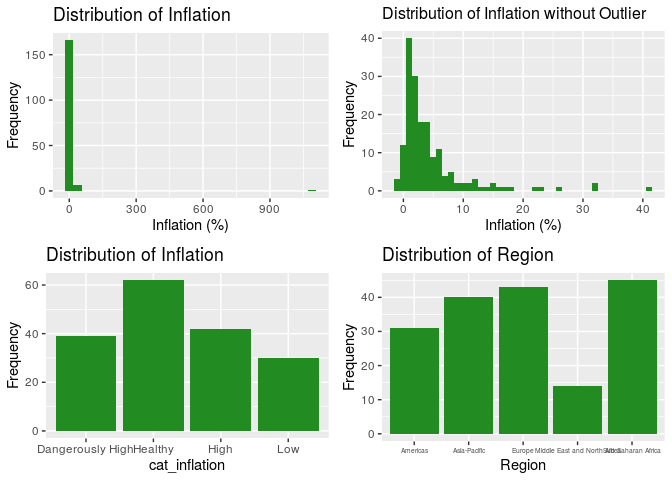
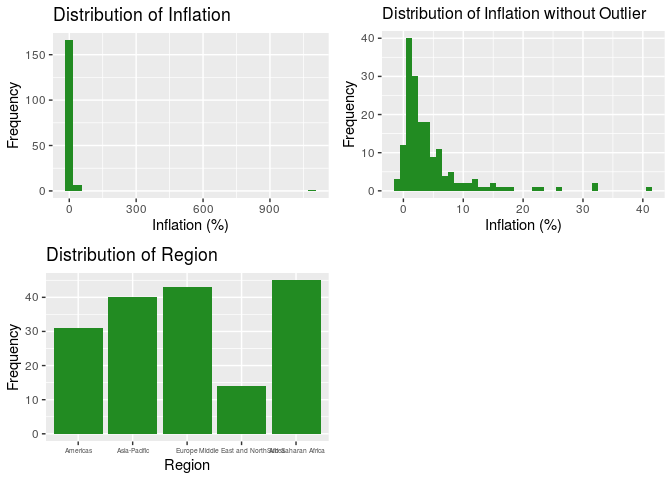
Shortened writeup

diff --git a/04-final-writeup/final-writeup.md b/04-final-writeup/final-writeup.md
@@ -56,23 +56,23 @@ The response variable is GDP.
     ##  n obs: 173 
     ##  n variables: 1 
     ## 
-    ## ── Variable type:numeric ────────────────────────────────────────────────────────────────────────────────
+    ## ── Variable type:numeric ─────────────────────────────────────────────────────────────────────────────────────────────────────────────
     ##  variable missing complete   n   mean      sd  p0  p25  p50   p75    p100
     ##       GDP       0      173 173 729.71 2486.04 0.6 28.3 88.9 439.6 23159.1
     ##      hist
     ##  ▇▁▁▁▁▁▁▁
 
-From our EDA, we decide to log-transform the response variable since the
-histogram of GDP (without outlier) shows a unimodal and right-skewed
+From our EDA, we decided to log-transform the response variable since
+the histogram of GDP (without outlier) shows a unimodal and right-skewed
 distribution. The logGDP distribution on the other hand is unimodal and
 symmetric. The mean logGDP is 4.61 and the standard deviation of its
-distribution is 2.08.
+distribution is 2.08. LogGDP’s summary statistics are printed below.
 
     ## Skim summary statistics
     ##  n obs: 173 
     ##  n variables: 1 
     ## 
-    ## ── Variable type:numeric ────────────────────────────────────────────────────────────────────────────────
+    ## ── Variable type:numeric ─────────────────────────────────────────────────────────────────────────────────────────────────────────────
     ##  variable missing complete   n mean   sd    p0  p25  p50  p75  p100
     ##    logGDP       0      173 173 4.61 2.08 -0.51 3.34 4.49 6.09 10.05
     ##      hist
@@ -80,42 +80,62 @@ distribution is 2.08.
 
 #### Univariate Analysis of Predictor Variables
 
-The quantitative predictor variables
-ARE\_\_\_\_\_\_\_\_\_\_\_\_\_\_\_\_\_\_\_\_\_\_\_\_\_\_\_\_\_\_\_\_\_\_
-
-The categorical predictor variables
-ARE\_\_\_\_\_\_\_\_\_\_\_\_\_\_\_\_\_\_\_\_\_\_\_\_\_\_\_\_\_\_\_\_\_\_
-
-Here, we highlight two predictor variables Population and
-Inflation.
+The quantitative predictor variables are TariffRate, IncomeTaxRate,
+CorporateTaxRate, TaxBurden, GovSpending, Population, GDPGrowth,
+Unemployment, and PublicDebt. Out of these, we will discuss two
+predictor variables, Population and Inflation. (Discussion of the rest
+of the variables will be in Additional Work). The distribution of each
+of the quantitative predictor variables is shown
+below.
 
 ![](final-writeup_files/figure-gfm/EDA1-1.png)<!-- -->![](final-writeup_files/figure-gfm/EDA1-2.png)<!-- -->
 
-    ## Skim summary statistics
-    ##  n obs: 173 
-    ##  n variables: 1 
-    ## 
-    ## ── Variable type:numeric ────────────────────────────────────────────────────────────────────────────────
-    ##    variable missing complete   n  mean     sd  p0 p25 p50  p75   p100
-    ##  Population       0      173 173 42.16 149.89 0.1 2.9 9.5 31.4 1390.1
-    ##      hist
-    ##  ▇▁▁▁▁▁▁▁
-
 From this histogram of population without outliers, the distribution of
 population is unimodal and right-skewed. The median is 9.15 and the IQR
-is 26.85. Based on the subsequent pairs plot, population has a
-logarithmic relationship with logGDP and thus we will apply a
-logarithmic transform to population below.
+is 26.85. Based on the subsequent pairs plot (in multivariate EDA),
+population has a logarithmic relationship with logGDP and thus we will
+apply a logarithmic transform to population below. The summary
+statistics of this transformed variable are also
+printed.
+
+![](final-writeup_files/figure-gfm/Population%20without%20Outlier-1.png)<!-- -->
 
     ## Skim summary statistics
     ##  n obs: 173 
     ##  n variables: 1 
     ## 
-    ## ── Variable type:numeric ────────────────────────────────────────────────────────────────────────────────
+    ## ── Variable type:numeric ─────────────────────────────────────────────────────────────────────────────────────────────────────────────
+    ##  variable missing complete   n mean  sd   p0  p25  p50  p75 p100     hist
+    ##    logpop       0      173 173 2.16 1.8 -2.3 1.06 2.25 3.45 7.24 ▁▃▃▇▆▃▁▁
+
+The categorical predictor variables are Region, GovInterference, and
+Inflation. The distribution of these variables is printed
+below.
+
+![](final-writeup_files/figure-gfm/EDA2-1.png)<!-- -->![](final-writeup_files/figure-gfm/EDA2-2.png)<!-- -->
+
+`Inflation` represents the change in prices of goods and services in a
+year in the country. The distribution of inflation rate is generally
+unimodal and right skewed. The mode of the distribution is around 2%.
+Given significant skewing, we report the median and IQR as measures of
+center and spread. The median inflation rate is 2.7% and the IQR is 4%.
+These summary statistics are printed below.
+
+    ## Skim summary statistics
+    ##  n obs: 173 
+    ##  n variables: 1 
+    ## 
+    ## ── Variable type:numeric ─────────────────────────────────────────────────────────────────────────────────────────────────────────────
     ##   variable missing complete   n  mean    sd   p0 p25 p50 p75   p100
     ##  Inflation       0      173 173 10.87 82.56 -0.9 1.3 2.8 5.5 1087.5
     ##      hist
     ##  ▇▁▁▁▁▁▁▁
+
+Because we hypothesize that inflation interacts with other variables and
+can determine whether the effect of other variables (that have to do
+with currency stability) is positive or negative, we have recoded it
+into a categorical variable that will make interpretation of these
+interaction terms easier.
 
     ## # A tibble: 4 x 2
     ## # Groups:   cat_inflation [4]
@@ -126,26 +146,7 @@ logarithmic transform to population below.
     ## 3 High                42
     ## 4 Low                 30
 
-![](final-writeup_files/figure-gfm/EDA2-1.png)<!-- -->![](final-writeup_files/figure-gfm/EDA2-2.png)<!-- -->
-
-EXPLAIN WHY HOW WE CHANGE INFLATION INTO CATEGORIES AND WHY DID WE DO SO
-
-CUT DOWN THE FOLLOWING PARAGRAPH
-
-`Inflation` represents the change in prices of goods and services in a
-year in the country. The first distribution of inflation rates includes
-all outliers. Because of the size and resolution of the diagram, the
-distribution of most economies are not visible. The second diagram shows
-the distribution of inflation rates without the outlier with more than
-1000% inflation. The distribution of inflation rate is generally
-unimodal and right skewed. The mode of the distribution is around 2%.
-Given significant skewing, we report the median and IQR as measures of
-center and spread. The median inflation rate is 2.7% and the IQR is 4%.
-Because inflation can vary widely between countries, we have recoded it
-into a categorical variable that better captures whether a country’s
-inflation is healthy or unhealthy. Above is a plot to show the frequency
-of each level of
-inflation.
+![](final-writeup_files/figure-gfm/inflation-eda-1.png)<!-- -->
 
 ### Multivariate Exploration
 
@@ -163,13 +164,15 @@ include tariff rate and unemployment as well as tariff rate and
 unemployment.
 
 A similar analysis is conducted between the response and the categorical
-variables using side-by-side boxplots.
+variables using side-by-side
+boxplots.
 
-INCLUDE ONE LINE WHY NOTHING OUTSTANDING IS OBSERVED FOR RESPONSE VS
-CATEGORICAL
-VARIABLE
+![](final-writeup_files/figure-gfm/Boxplots%20for%20response%20vs%20categorical-1.png)<!-- -->![](final-writeup_files/figure-gfm/Boxplots%20for%20response%20vs%20categorical-2.png)<!-- -->![](final-writeup_files/figure-gfm/Boxplots%20for%20response%20vs%20categorical-3.png)<!-- -->
 
-![](final-writeup_files/figure-gfm/Boxplots%20for%20response%20vs%20categorical-1.png)<!-- -->![](final-writeup_files/figure-gfm/Boxplots%20for%20response%20vs%20categorical-2.png)<!-- -->
+In each case, it seems apparent that across the different levels of each
+of our three categorical variables, the mean logGDP values tend to be
+different from one another. This suggests that these variables, or at
+least some of their levels, may end up in our final model.
 
 We also meancentered the following variables for the modelling:
 TaxBurden and
@@ -1516,7 +1519,7 @@ GDP, starting with
     ##  n obs: 173 
     ##  n variables: 1 
     ## 
-    ## ── Variable type:numeric ────────────────────────────────────────────────────────────────────────────────
+    ## ── Variable type:numeric ─────────────────────────────────────────────────────────────────────────────────────────────────────────────
     ##   variable missing complete   n  mean    sd  p0 p25  p50  p75 p100
     ##  TaxBurden       0      173 173 22.19 10.25 1.6  14 20.7 30.2   47
     ##      hist
@@ -1533,7 +1536,7 @@ deviation of the distribution is 10.17%.
     ##  n obs: 173 
     ##  n variables: 1 
     ## 
-    ## ── Variable type:numeric ────────────────────────────────────────────────────────────────────────────────
+    ## ── Variable type:numeric ─────────────────────────────────────────────────────────────────────────────────────────────────────────────
     ##     variable missing complete   n mean    sd   p0  p25  p50  p75 p100
     ##  GovSpending       0      173 173 32.2 10.67 10.6 23.6 31.6 39.8 64.2
     ##      hist
@@ -1550,7 +1553,7 @@ of GDP and the distribution has a standard deviation of 15.52%.
     ##  n obs: 173 
     ##  n variables: 1 
     ## 
-    ## ── Variable type:numeric ────────────────────────────────────────────────────────────────────────────────
+    ## ── Variable type:numeric ─────────────────────────────────────────────────────────────────────────────────────────────────────────────
     ##    variable missing complete   n  mean     sd  p0 p25 p50  p75   p100
     ##  Population       0      173 173 42.16 149.89 0.1 2.9 9.5 31.4 1390.1
     ##      hist
@@ -1565,7 +1568,7 @@ graph of population without these two points below.
     ##  n obs: 173 
     ##  n variables: 1 
     ## 
-    ## ── Variable type:numeric ────────────────────────────────────────────────────────────────────────────────
+    ## ── Variable type:numeric ─────────────────────────────────────────────────────────────────────────────────────────────────────────────
     ##    variable missing complete   n  mean     sd  p0 p25 p50  p75   p100
     ##  Population       0      173 173 42.16 149.89 0.1 2.9 9.5 31.4 1390.1
     ##      hist
@@ -1584,7 +1587,7 @@ apply a logarithmic transform to population below.
     ##  n obs: 173 
     ##  n variables: 1 
     ## 
-    ## ── Variable type:numeric ────────────────────────────────────────────────────────────────────────────────
+    ## ── Variable type:numeric ─────────────────────────────────────────────────────────────────────────────────────────────────────────────
     ##      variable missing complete   n mean   sd  p0 p25 p50 p75 p100     hist
     ##  Unemployment       0      173 173 7.27 5.67 0.1 3.7 5.5 9.3 27.3 ▆▇▅▂▁▁▁▁
 
@@ -1599,7 +1602,7 @@ IQR is 5.6.
     ##  n obs: 173 
     ##  n variables: 1 
     ## 
-    ## ── Variable type:numeric ────────────────────────────────────────────────────────────────────────────────
+    ## ── Variable type:numeric ─────────────────────────────────────────────────────────────────────────────────────────────────────────────
     ##    variable missing complete   n mean  sd p0 p25 p50 p75 p100     hist
     ##  TariffRate       0      173 173 5.61 4.4  0   2 4.2 8.7 18.6 ▇▅▃▃▃▁▁▁
 
@@ -1616,7 +1619,7 @@ examine it further in a pairs plot later in the analysis.
     ##  n obs: 173 
     ##  n variables: 1 
     ## 
-    ## ── Variable type:numeric ────────────────────────────────────────────────────────────────────────────────
+    ## ── Variable type:numeric ─────────────────────────────────────────────────────────────────────────────────────────────────────────────
     ##   variable missing complete   n  mean    sd   p0 p25 p50 p75   p100
     ##  Inflation       0      173 173 10.87 82.56 -0.9 1.3 2.8 5.5 1087.5
     ##      hist
@@ -1660,7 +1663,7 @@ variable.
     ##  n obs: 173 
     ##  n variables: 1 
     ## 
-    ## ── Variable type:numeric ────────────────────────────────────────────────────────────────────────────────
+    ## ── Variable type:numeric ─────────────────────────────────────────────────────────────────────────────────────────────────────────────
     ##       variable missing complete   n  mean    sd p0 p25 p50 p75 p100
     ##  IncomeTaxRate       0      173 173 28.78 13.32  0  20  30  35   60
     ##      hist
@@ -1680,7 +1683,7 @@ the distribution is 13.4%.
     ##  n obs: 173 
     ##  n variables: 1 
     ## 
-    ## ── Variable type:numeric ────────────────────────────────────────────────────────────────────────────────
+    ## ── Variable type:numeric ─────────────────────────────────────────────────────────────────────────────────────────────────────────────
     ##          variable missing complete   n  mean   sd p0 p25 p50 p75 p100
     ##  CorporateTaxRate       0      173 173 23.95 8.89  0  20  25  30   50
     ##      hist
@@ -1697,7 +1700,7 @@ corporate tax rate is 23.89% and the standard deviation is 8.88%.
     ##  n obs: 173 
     ##  n variables: 1 
     ## 
-    ## ── Variable type:numeric ────────────────────────────────────────────────────────────────────────────────
+    ## ── Variable type:numeric ─────────────────────────────────────────────────────────────────────────────────────────────────────────────
     ##    variable missing complete   n  mean   sd p0  p25  p50  p75  p100
     ##  PublicDebt       0      173 173 56.46 33.8  0 35.2 49.4 69.9 236.4
     ##      hist
